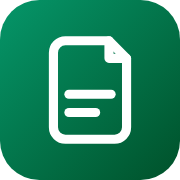
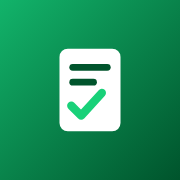
A mark that survives being small
The old icon was an outlined document: four strokes at 26px on a 512
canvas, which is a drawing rather than a mark. At the size it is actually
seen — a browser tab, a launcher, the row of a consent screen — the
strokes merged and it read as a green square with a smudge.

The new one is a single silhouette: a solid document carrying the check,
not a document with a badge stuck to it. Two overlapping shapes are what
made the first attempts fail at 16px, and one shape is why this survives.

Every size is generated from the same file rather than drawn again:

- 512 / 192 / 32 keep the rounded plate.
- apple-touch-icon is full bleed. iOS applies its own mask, so a corner
  rounded here would be rounded twice.
- the maskable icon sits inside the safe circle at 62%, with the plate
  colour bleeding to every edge, because Android crops it to whatever
  shape the launcher wants.
- icon-inverse.svg is the same mark on a white plate, for dark surfaces.

The share card keeps its typography and gets only the mark replaced —
regenerating it here would have swapped Inter for whatever font this
machine has, which is a worse card than the one we started with.

453 passing.

Claude-Session: https://claude.ai/code/session_01M9nJacMymynHsyu7KRr4m7

diff --git a/index.html b/index.html
@@ -96,12 +96,12 @@
        and a blocked cdnjs left the PDF button throwing. Nothing here can be
        taken away by a third party, and nothing follows @latest. -->
   <link href="https://fonts.googleapis.com/css2?family=Cairo:wght@400;600;700&family=Inter:wght@400;500;600;700&display=swap" rel="stylesheet"/>
-  <link rel="stylesheet" href="styles.css?v=20260821p" />
+  <link rel="stylesheet" href="styles.css?v=20260821q" />
   <!-- Last, because the Play CDN appended its <style> to the end of the head
        and the design was drawn against that cascade: the utilities win the
        ties. Move this above styles.css and the overdue total stops being red
        and the accent border comes off the cards. -->
-  <link rel="stylesheet" href="vendor/tailwind.css?v=20260821p" />
+  <link rel="stylesheet" href="vendor/tailwind.css?v=20260821q" />
   <script defer src="vendor/lucide.min.js"></script>
   <script defer src="vendor/jspdf.umd.min.js"></script>
   <script defer src="vendor/html2canvas.min.js"></script>
@@ -225,8 +225,8 @@
     <div class="flex-1 overflow-y-auto p-3 sm:p-4" id="preview-body"></div>
   </div>
 
-  <script src="i18n.js?v=20260821p"></script>
-  <script src="app.js?v=20260821p"></script>
+  <script src="i18n.js?v=20260821q"></script>
+  <script src="app.js?v=20260821q"></script>
   <script>
     var LW = {
       fr:{t:"Vos données sont enregistrées dans ce navigateur uniquement.",
@@ -300,7 +300,7 @@
     };
   </script>
   <script defer src="/_vercel/insights/script.js"></script>
-  <script defer src="install.js?v=20260821p"></script>
+  <script defer src="install.js?v=20260821q"></script>
 
   <!-- Installable, and usable with no signal. Registered after load so it
        never competes with the first paint, and failure is silent: a browser

diff --git a/app.js b/app.js
@@ -1,6 +1,6 @@
 (function(){
 function load(src){return new Promise(function(res,rej){var s=document.createElement("script");s.src=src;s.onload=res;s.onerror=function(){rej(src)};document.head.appendChild(s);});}
-var V="20260821p";
+var V="20260821q";
 var core=["lib-calc.js","a.js","dash-fix.js","b1.js","b2a.js","b2b.js","c1.js","c2.js","extra.js","pro-polish.js","commerce.js","lib-xlsx.js","excel.js","backup.js","drive.js","avoir.js","bl.js","depenses.js"];
 try{localStorage.removeItem("fp_xai_key");}catch(e){}
 core.reduce(function(p,f){return p.then(function(){return load(f+"?v="+V);});},Promise.resolve())

diff --git a/sw.js b/sw.js
@@ -12,7 +12,7 @@
    cache only answers when the network does not.
 
    Bump CACHE whenever the shell changes — keep it in step with V in app.js. */
-var CACHE = 'facturepro-20260821p';
+var CACHE = 'facturepro-20260821q';
 
 /* Cached without their ?v= query, and read back with ignoreSearch, so bumping
    an asset version does not orphan every entry. */
